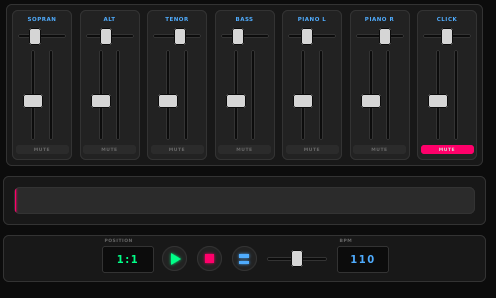
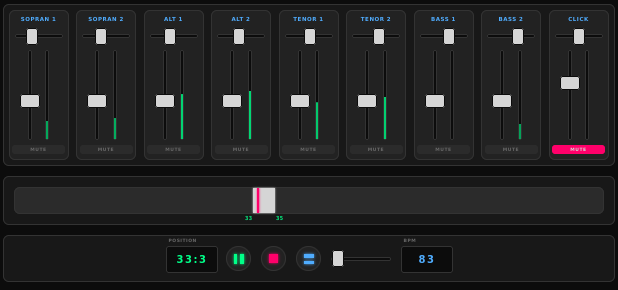
update preview.png

diff --git a/index.html b/index.html
@@ -13,8 +13,8 @@
     <meta property="og:type" content="website">
 
     <!-- Optional: image dimensions -->
-    <meta property="og:image:width" content="496">
-    <meta property="og:image:height" content="298">
+    <meta property="og:image:width" content="618">
+    <meta property="og:image:height" content="290">
 
     <!-- Optional favicon -->
     <link rel="icon" href="img/favicon.ico">